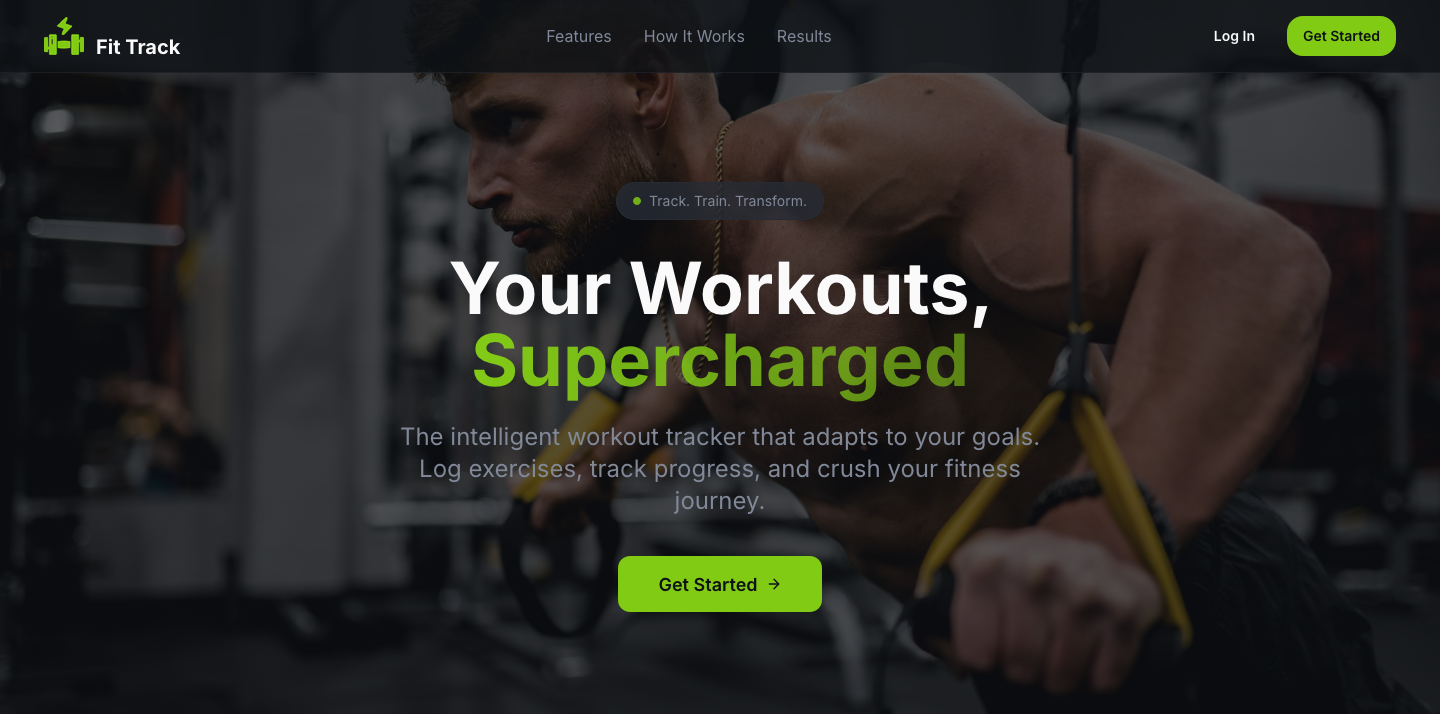
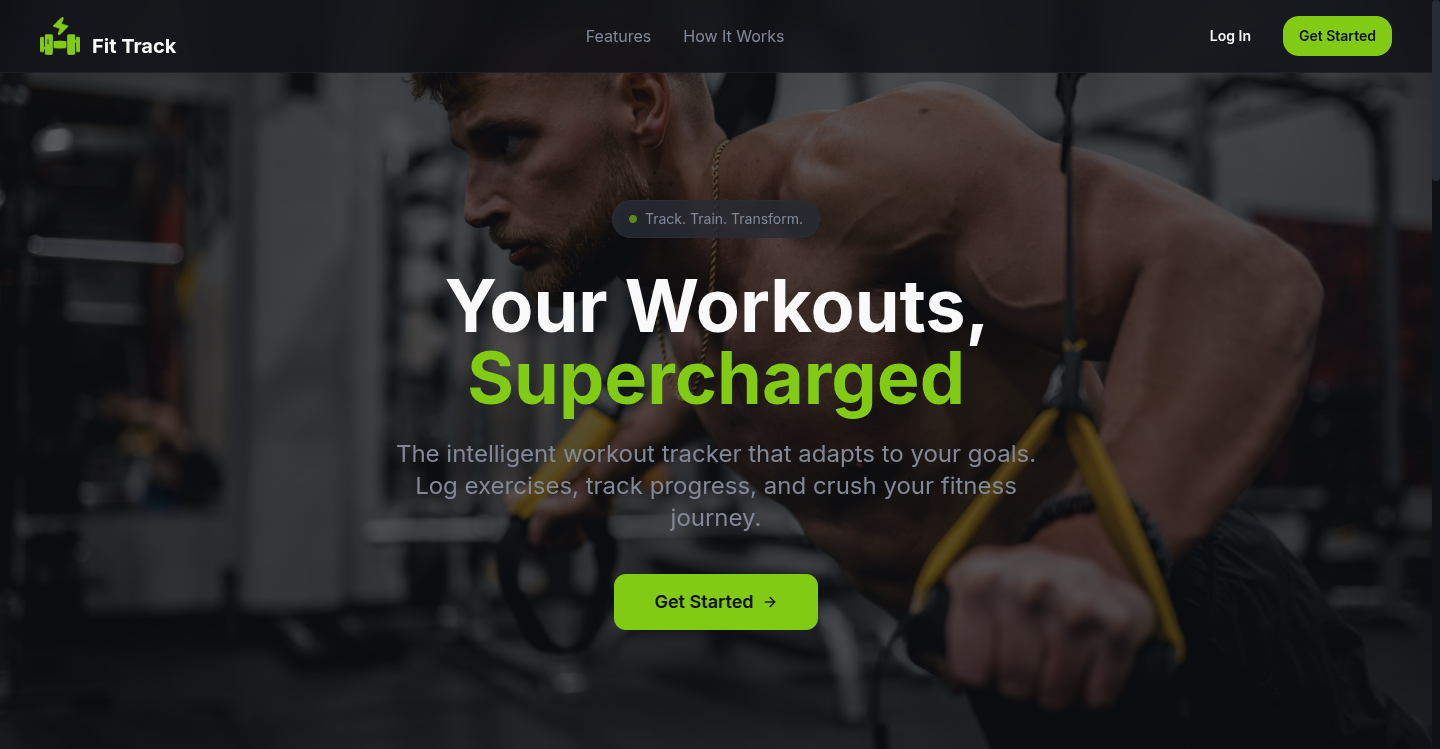
refactor: updated skills section; changed project images

diff --git a/components/Skills.tsx b/components/Skills.tsx
@@ -1,162 +1,165 @@
-import React, { useEffect, useRef, useState } from 'react';
-import { Skill } from '../types';
+import React, { useState } from 'react';
+import { 
+  Code2, 
+  Layout, 
+  Server, 
+  Database, 
+  Terminal
+} from 'lucide-react';
 import { RevealOnScroll } from './RevealOnScroll';
 
-const skills: Partial<Skill>[] = [
-  { name: 'JavaScript', category: 'Frontend' },
-  { name: 'TypeScript', category: 'Frontend' },
-  { name: 'Next.js', category: 'Frontend' },
-  { name: 'React', category: 'Frontend' },
-  { name: 'Node.js', category: 'Backend' },
-  { name: 'Redux', category: 'Frontend' },
-  { name: 'Express.js', category: 'Backend' },
-  { name: 'Fastify', category: 'Backend' },
-  { name: 'Firebase', category: 'Backend' },
-  { name: 'Tailwind', category: 'Frontend' },
-  { name: 'Prisma', category: 'Backend' },
-  { name: 'Postgres', category: 'Backend' },
-  { name: 'MySQL', category: 'Backend' },
-  { name: 'MongoDB', category: 'Backend' },
-  { name: 'Git', category: 'Tools' },
+interface SkillItem {
+  name: string;
+  iconName: string;
+  invertInDark?: boolean;
+}
+interface CategoryGroup {
+  index: number,
+  name: string;
+  icon: React.ComponentType<{ className?: string }>;
+  skills: SkillItem[];
+}
+const CATEGORIES: CategoryGroup[] = [
+  {
+    index: 1,
+    name: 'Languages',
+    icon: Code2,
+    skills: [
+      { name: 'TypeScript', iconName: 'logos:typescript-icon' },
+      { name: 'JavaScript', iconName: 'logos:javascript' }
+    ],
+  },
+  {
+    index: 2,
+    name: 'Frontend',
+    icon: Layout,
+    skills: [
+      { name: 'React', iconName: 'logos:react' },
+      { name: 'Next.js', iconName: 'logos:nextjs-icon', invertInDark: true },
+      { name: 'Tailwind CSS', iconName: 'logos:tailwindcss-icon' },
+      { name: 'Redux', iconName: 'logos:redux' },
+      { name: "Zustand", iconName: 'devicon:zustand', invertInDark: true},
+      { name: "React Router", iconName: 'devicon:reactrouter', invertInDark: true}
+    ],
+  },
+  {
+    index: 3,
+    name: 'Backend',
+    icon: Server,
+    skills: [
+      { name: 'Node.js', iconName: 'logos:nodejs-icon' },
+      { name: 'Express.js', iconName: 'devicon:express', invertInDark: true },
+      { name: 'Fastify', iconName: 'logos:fastify-icon', invertInDark: true },
+      { name: 'Better-Auth', iconName: 'thesvg-color:better-auth-dark', invertInDark: true },
+      { name: 'Firebase', iconName: 'vscode-icons:file-type-firebase' },
+    ],
+  },
+  {
+    index: 4,
+    name: 'Database',
+    icon: Database,
+    skills: [
+      { name: 'PostgreSQL', iconName: 'logos:postgresql' },
+      { name: 'MongoDB', iconName: 'logos:mongodb-icon' },
+      { name: 'MySQL', iconName: 'devicon:mysql' },
+      { name: 'Prisma', iconName: 'logos:prisma', invertInDark: true },
+      { name: 'Mongoose', iconName: 'devicon:mongoose' }
+    ],
+  },
+  {
+    index: 5,
+    name: 'Devops & Tools',
+    icon: Terminal,
+    skills: [
+      { name: 'Git', iconName: 'logos:git-icon' },
+      { name: 'Docker', iconName: 'logos:docker-icon' },
+      { name: 'Linux', iconName: 'logos:linux-tux' }
+    ],
+  },
 ];
+const TechIcon: React.FC<{ iconName: string; name: string; invertInDark?: boolean }> = ({
+  iconName,
+  name,
+  invertInDark,
+}) => {
+  const [hasError, setHasError] = useState(false);
+  const src = `https://api.iconify.design/${iconName}.svg`;
 
-const getIconUrl = (name: string) => {
-  const mapping: Record<string, string> = {
-    'JavaScript': 'logos:javascript',
-    'TypeScript': 'logos:typescript-icon',
-    'Next.js': 'logos:nextjs-icon',
-    'React': 'logos:react',
-    'Node.js': 'logos:nodejs-icon',
-    'Redux': 'logos:redux',
-    'Express.js': 'logos:express',
-    'Fastify': 'logos:fastify-icon',
-    'Firebase': 'vscode-icons:file-type-firebase',
-    'Tailwind': 'logos:tailwindcss-icon',
-    'Prisma': 'logos:prisma',
-    'Postgres': 'logos:postgresql',
-    'MySQL': 'logos:mysql',
-    'MongoDB': 'logos:mongodb-icon',
-    'Git': 'logos:git-icon',
-  };
-  
-  const iconName = mapping[name] || 'vscode-icons:default-file';
-  return `https://api.iconify.design/${iconName}.svg`;
-};
-
-const SkillSphere: React.FC = () => {
-  const containerRef = useRef<HTMLDivElement>(null);
-  const [positions, setPositions] = useState<{ x: number; y: number; z: number; name: string }[]>([]);
-  const rotationRef = useRef({ x: 0.005, y: 0.005 });
-
-  useEffect(() => {
-    const count = skills.length;
-    const radius = 150;
-    const initialPositions = skills.map((skill, i) => {
-      const phi = Math.acos(-1 + (2 * i) / count);
-      const theta = Math.sqrt(count * Math.PI) * phi;
-      return {
-        x: radius * Math.cos(theta) * Math.sin(phi),
-        y: radius * Math.sin(theta) * Math.sin(phi),
-        z: radius * Math.cos(phi),
-        name: skill.name || '',
-      };
-    });
-    setPositions(initialPositions);
-
-    let animationFrameId: number;
-    const animate = () => {
-      setPositions((prev) =>
-        prev.map((pos) => {
-          const cosX = Math.cos(rotationRef.current.x);
-          const sinX = Math.sin(rotationRef.current.x);
-          let y1 = pos.y * cosX - pos.z * sinX;
-          let z1 = pos.y * sinX + pos.z * cosX;
-          const cosY = Math.cos(rotationRef.current.y);
-          const sinY = Math.sin(rotationRef.current.y);
-          let x2 = pos.x * cosY + z1 * sinY;
-          let z2 = -pos.x * sinY + z1 * cosY;
-          return { ...pos, x: x2, y: y1, z: z2 };
-        })
-      );
-      animationFrameId = requestAnimationFrame(animate);
-    };
-
-    const handleMouseMove = (e: MouseEvent) => {
-      const rect = containerRef.current?.getBoundingClientRect();
-      if (!rect) return;
-      const x = (e.clientX - rect.left - rect.width / 2) / (rect.width / 2);
-      const y = (e.clientY - rect.top - rect.height / 2) / (rect.height / 2);
-      rotationRef.current = { x: -y * 0.02, y: x * 0.02 };
-    };
-
-    const container = containerRef.current;
-    if (container) container.addEventListener('mousemove', handleMouseMove);
-    animate();
-    return () => {
-      cancelAnimationFrame(animationFrameId);
-      if (container) container.removeEventListener('mousemove', handleMouseMove);
-    };
-  }, []);
+  if (hasError) {
+    return (
+      <span className="font-mono font-bold text-xs text-primary shrink-0">
+        {name.slice(0, 2).toUpperCase()}
+      </span>
+    );
+  }
 
   return (
-    <div ref={containerRef} className="relative w-full h-[400px] flex items-center justify-center perspective-1000 overflow-visible cursor-default">
-      {positions.map((pos, i) => {
-        const scale = (pos.z + 200) / 350;
-        const opacity = (pos.z + 150) / 300;
-        return (
-          <span
-            key={i}
-            className="absolute font-bold text-lg select-none pointer-events-none whitespace-nowrap transition-colors duration-300"
-            style={{
-              transform: `translate3d(${pos.x}px, ${pos.y}px, 0) scale(${scale})`,
-              opacity: Math.max(0.1, opacity),
-              color: `rgba(16, 185, 129, ${Math.max(0.3, opacity)})`,
-              zIndex: Math.round(pos.z + 200),
-            }}
-          >
-            {pos.name}
-          </span>
-        );
-      })}
-      <div className="absolute w-24 h-24 bg-primary/10 rounded-full blur-3xl animate-pulse" />
-    </div>
+    <img
+      src={src}
+      alt={name}
+      onError={() => setHasError(true)}
+      className={`w-8 h-8 object-contain shrink-0 transition-transform duration-200 group-hover:scale-115 ${
+        invertInDark ? 'dark:invert' : ''
+      }`}
+      loading="lazy"
+    />
   );
 };
 
 export const Skills: React.FC = () => {
   return (
-    <section id="skills" className="py-12 sm:py-16 lg:py-24 px-4 sm:px-6 lg:px-8 bg-gray-50 dark:bg-zinc-950 transition-colors duration-300">
-      <div className="max-w-6xl mx-auto">
+    <section id="skills" className="py-24 px-4 sm:px-6 lg:px-8 bg-gray-50 dark:bg-black transition-colors duration-300">
+      <div className="max-w-5xl mx-auto">
         <RevealOnScroll>
-          <h2 className="text-3xl font-bold text-gray-900 dark:text-white mb-12 flex items-center">
-            <span className="text-primary mr-2">01.</span> Skills & Technologies
-          </h2>
-
-          <div className="grid grid-cols-1 lg:grid-cols-2 gap-12 items-center">
-            <div className="grid grid-cols-3 sm:grid-cols-4 md:grid-cols-5 gap-3">
-              {skills.map((skill, index) => (
-                <div 
-                  key={skill.name}
-                  className="flex flex-col items-center justify-center p-3 bg-white dark:bg-zinc-900 rounded-xl shadow-sm border border-gray-100 dark:border-zinc-800 hover:border-primary dark:hover:border-primary transition-all duration-300 group hover:-translate-y-1"
-                  style={{ transitionDelay: `${index * 30}ms` }}
+          {/* Section Header */}
+          <div className="mb-14">
+            <h2 className="text-3xl sm:text-4xl font-bold tracking-tight text-gray-900 dark:text-white flex items-center">
+              <span className="text-primary mr-3 font-mono">01.</span> Skills & Technologies
+            </h2>
+          </div>
+          {/* Grouped Skills Flow - No boxes, No grids */}
+          <div className="divide-y divide-gray-200 dark:divide-zinc-800/80 border-y border-gray-200 dark:border-zinc-800/80">
+            {CATEGORIES.map((category, index) => {
+              const Icon = category.icon;
+              return (
+                <div
+                  key={category.index}
+                  className="py-7 sm:py-8 flex flex-col md:flex-row md:items-baseline gap-4 md:gap-10 transition-colors"
                 >
-                  <div className="w-12 h-7 mb-2 flex items-center justify-center group-hover:scale-110 transition-transform duration-300">
-                    <img 
-                      src={getIconUrl(skill.name!)} 
-                      alt={skill.name} 
-                      className={`w-full h-full object-contain ${['Express.js', 'Next.js', 'Fastify', 'Prisma'].includes(skill.name!) ? 'dark:invert' : ''}`}
-                      loading="lazy"
-                    />
+                  {/* Category Title & Indicator */}
+                  <div className="w-full md:w-52 shrink-0 flex items-center justify-between md:justify-start gap-3">
+                    <div className="flex items-center gap-2.5">
+                      <span className="font-mono text-m text-primary font-semibold">
+                        0{index + 1}.
+                      </span>
+                      <Icon className="w-5 h-5 text-gray-400 dark:text-zinc-500" />
+                      <h3 className="text-base font-semibold text-gray-900 dark:text-white font-mono tracking-tight">
+                        {category.name}
+                      </h3>
+                    </div>
                   </div>
-                  <span className="text-[11px] font-bold uppercase tracking-tighter text-gray-500 dark:text-zinc-500 transition-colors">
-                    {skill.name}
-                  </span>
+
+                  {/* Flowing Inline Skills List */}
+                  <div className="flex-1 flex flex-wrap items-center gap-x-6 gap-y-3.5">
+                    {category.skills.map((skill) => (
+                      <div
+                        key={skill.name}
+                        className="group inline-flex items-center gap-2 py-1 text-base text-gray-700 dark:text-zinc-300 transition-colors cursor-default"
+                      >
+                        <TechIcon
+                          iconName={skill.iconName}
+                          name={skill.name}
+                          invertInDark={skill.invertInDark}
+                        />
+                        <span className="font-medium tracking-tight">
+                          {skill.name}
+                        </span>
+                      </div>
+                    ))}
+                  </div>
                 </div>
-              ))}
-            </div>
-            <div className="hidden lg:flex justify-center items-center">
-              <SkillSphere />
-            </div>
+              );
+            })}
           </div>
         </RevealOnScroll>
       </div>

diff --git a/components/Projects.tsx b/components/Projects.tsx
@@ -2,16 +2,17 @@ import React from 'react';
 import { ExternalLink, Github } from 'lucide-react';
 import { Project } from '../types';
 import { RevealOnScroll } from './RevealOnScroll';
+import { LuGithub } from "react-icons/lu";
 
 const projects: Project[] = [
   {
     id: 1,
-    title: 'Flick Verse',
-    description: 'A movie streaming platform built with React and Tailwind CSS, featuring the latest movies and TV shows with fast search functionality.',
-    technologies: ['TypeScript', 'React', 'Tailwind', 'Framer Motion'],
-    link: 'https://flick-verse.netlify.app',
-    github: 'https://github.com/abelwebdev/flick-verse',
-    image: '/projects/flick-verse.png',
+    title: 'Guitar JamTrack',
+    description: 'A Next.js platform for guitar enthusiasts to browse, play, and organize backing tracks with seamless playlist creation and artist discovery.',
+    technologies: ['TypeScript', 'Next.js', 'Tailwind', 'Prisma', 'PostgreSQL', 'Neon', 'Shadcn/ui', 'Firebase'],
+    link: 'https://guitar-jam-track.onrender.com/',
+    github: 'https://github.com/abelwebdev/guitar-jam-track',
+    image: '/projects/guitar-jam-track.png',
   },
   {
     id: 2,
@@ -24,12 +25,13 @@ const projects: Project[] = [
   },
   {
     id: 3,
-    title: 'Guitar JamTrack',
-    description: 'A Next.js platform for guitar enthusiasts to browse, play, and organize backing tracks with seamless playlist creation and artist discovery.',
-    technologies: ['TypeScript', 'Next.js', 'Tailwind', 'Prisma', 'PostgreSQL', 'Neon', 'Shadcn/ui', 'Firebase'],
-    link: 'https://guitar-jam-track.netlify.app',
-    github: 'https://github.com/abelwebdev/guitar-jam-track',
-    image: '/projects/guitar-jam-track.png',
+    title: 'Flick Verse',
+    description: 'A movie streaming platform built with React and Tailwind CSS, featuring the latest movies and TV shows with fast search functionality.',
+    technologies: ['TypeScript', 'React', 'Tailwind', 'Framer Motion'],
+    link: 'https://flick-verse.netlify.app',
+    github: 'https://github.com/abelwebdev/flick-verse',
+    image: '/projects/flick-verse.png',
+
   }
 ];
 
@@ -104,7 +106,7 @@ export const Projects: React.FC = () => {
 
                   <div className="mt-auto flex items-center gap-4 pt-4 border-t border-gray-100 dark:border-zinc-900">
                     <a href={project.github} target="_blank" className="flex items-center gap-1 text-sm font-medium text-gray-700 dark:text-zinc-300 hover:text-primary transition-all duration-300 hover:-translate-y-1 hover:scale-105">
-                      <Github size={18} className="transition-transform duration-300 group-hover:rotate-12" />
+                      <LuGithub size={18} className="transition-transform duration-300 group-hover:rotate-12" />
                       Code
                     </a>
                     <a href={project.link} target="_blank" className="flex items-center gap-1 text-sm font-medium text-gray-700 dark:text-zinc-300 hover:text-primary transition-all duration-300 hover:-translate-y-1 hover:scale-105">

diff --git a/components/Hero.tsx b/components/Hero.tsx
@@ -1,5 +1,6 @@
 import React, { useEffect, useRef } from 'react';
-import { ArrowRight, GithubIcon, LinkedinIcon, Mail } from 'lucide-react';
+import { ArrowRight } from 'lucide-react';
+import { LuGithub } from "react-icons/lu";
 
 export const Hero: React.FC = () => {
   const canvasRef = useRef<HTMLCanvasElement>(null);
@@ -151,10 +152,7 @@ export const Hero: React.FC = () => {
             
             <div className="flex items-center space-x-4">
               <a href="https://github.com/abelwebdev" target="_blank" className="p-2 text-gray-600 dark:text-gray-400 hover:text-primary dark:hover:text-primary transition-all hover:-translate-y-1" aria-label="GitHub">
-                <GithubIcon size={24} />
-              </a>
-              <a href="https://www.linkedin.com/in/abelwebdev" target="_blank" className="p-2 text-gray-600 dark:text-gray-400 hover:text-primary dark:hover:text-primary transition-all hover:-translate-y-1" aria-label="LinkedIn">
-                <LinkedinIcon size={24} />
+                <LuGithub className="w-6 h-6"/>
               </a>
             </div>
           </div>

diff --git a/src/App.tsx b/src/App.tsx
@@ -26,9 +26,9 @@ const App: React.FC = () => {
 
   const Logo = () => (
     <div className="font-bold text-xl tracking-tight text-gray-900 dark:text-white font-mono flex items-center group">
-      <span className="text-gray-400 dark:text-zinc-600 transition-transform duration-300 group-hover:-translate-x-1">&lt;</span>
+      <span className="text-primary dark:text-primary transition-transform duration-300 group-hover:-translate-x-1">&lt;</span>
       <span className="mx-0.5">Abel</span>
-      <span className="text-gray-400 dark:text-zinc-600 transition-transform duration-300 group-hover:translate-x-1"> /&gt;</span>
+      <span className="text-primary dark:text-primary transition-transform duration-300 group-hover:translate-x-1"> /&gt;</span>
     </div>
   );
 
